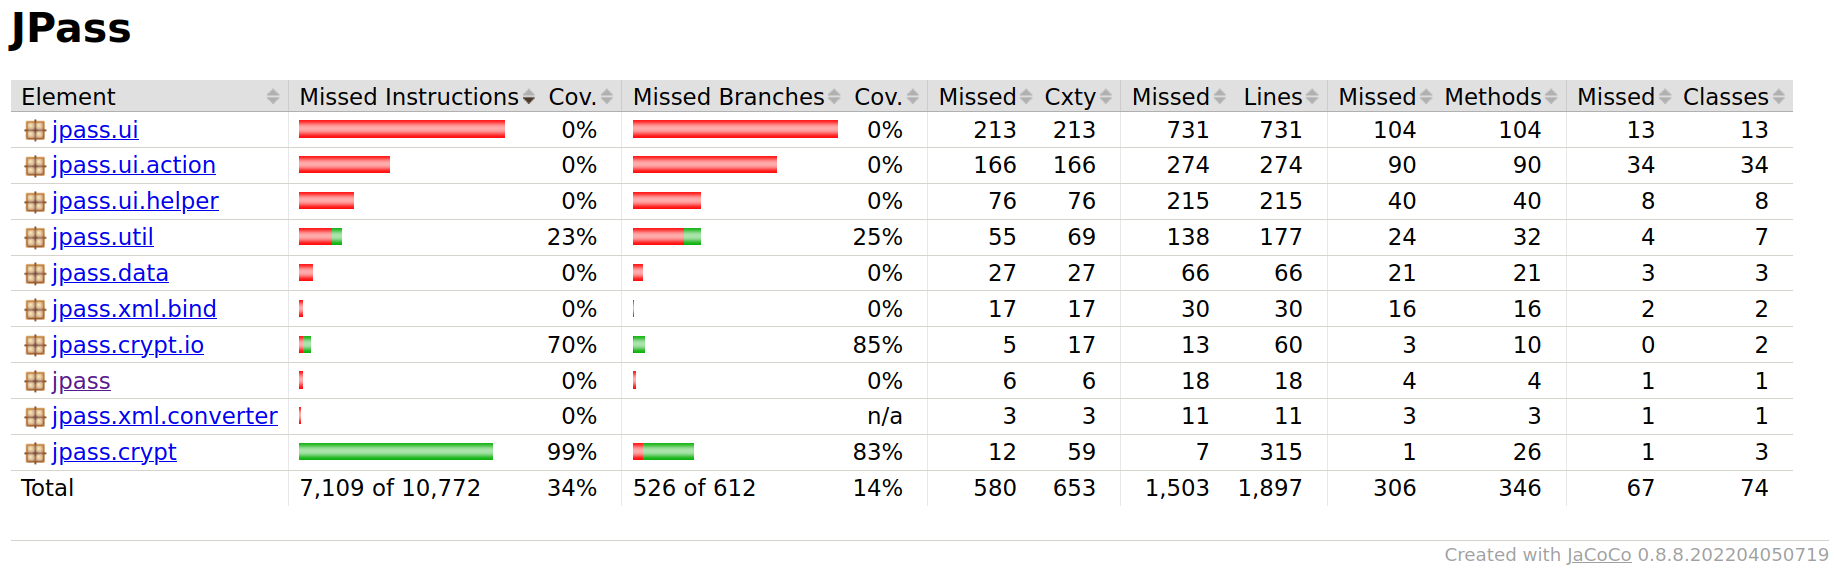
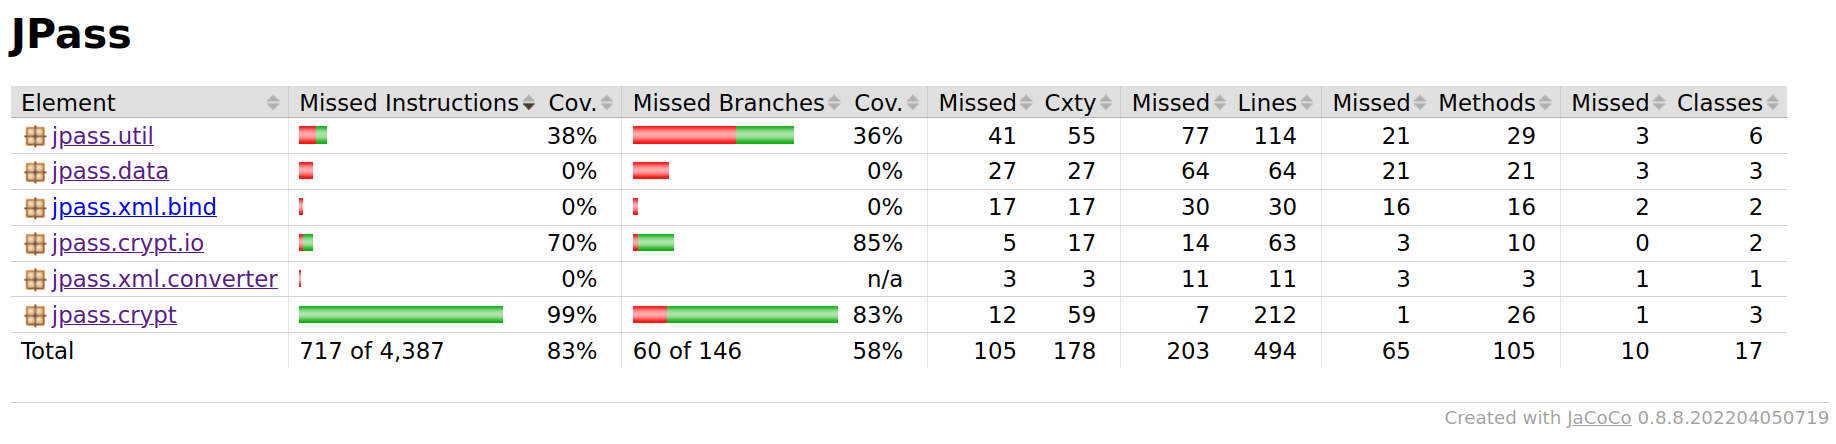
Report

diff --git a/src/test/java/jpass/data/EntriesRepositoryTest.java b/src/test/java/jpass/data/EntriesRepositoryTest.java
@@ -1,7 +1,7 @@
 package jpass.data;
 
 import static org.junit.jupiter.api.Assertions.assertEquals;
-import static org.junit.jupiter.api.Assertions.assertNotNull;
+import static org.junit.jupiter.api.Assertions.assertThrows;
 import static org.junit.jupiter.api.Assertions.fail;
 
 import java.io.FileNotFoundException;
@@ -120,17 +120,8 @@ public class EntriesRepositoryTest {
     public void noFileTest() {
         String filename = "src/test/res/not_a_file.txt";
         EntriesRepository repo = EntriesRepository.newInstance(filename);
-
-        try {
-            repo.readDocument();
-        }
-        catch (DocumentProcessException | IOException e) {
-            assertEquals(FileNotFoundException.class, e.getClass());
-            assertNotNull(e.getMessage());
-            return;
-        }
-
-        fail("No exception thrown.");
+        
+        assertThrows(FileNotFoundException.class, () -> repo.readDocument());
     }
 
     @Test
@@ -138,15 +129,6 @@ public class EntriesRepositoryTest {
         String filename = "src/test/res/bad_file.txt";
         EntriesRepository repo = EntriesRepository.newInstance(filename);
 
-        try {
-            repo.readDocument();
-        }
-        catch (DocumentProcessException | IOException e) {
-            assertNotNull(e.getMessage());
-            return;
-        }
-
-        fail("No exception thrown.");
-
+        assertThrows(IOException.class, () -> repo.readDocument());
     }
 }

diff --git a/src/test/java/jpass/util/CryptUtilsTest.java b/src/test/java/jpass/util/CryptUtilsTest.java
@@ -1,6 +1,7 @@
 package jpass.util;
 
 import static org.junit.jupiter.api.Assertions.assertEquals;
+import static org.junit.jupiter.api.Assertions.assertThrows;
 import static org.junit.jupiter.api.Assertions.fail;
 
 import org.junit.jupiter.api.Test;
@@ -26,14 +27,7 @@ public class CryptUtilsTest {
     public void nullGetSha256HashTest() {
         char[] text = null;
 
-        try {
-            CryptUtils.getSha256Hash(text);
-        }
-        catch (Exception e) {
-            return;
-        }
-        
-        fail("No exception thrown.");
+        assertThrows(Exception.class, () -> CryptUtils.getPKCS5Sha256Hash(text));
     }
 
     @Test

diff --git a/assignments/5/report.md b/assignments/5/report.md
@@ -10,9 +10,13 @@
 ## White-box testing: Structural Testing
 
 ### Code Coverage from the Tests from Assignment 2 and 3
-When collecting line and branch coverage for the tests developed for assignment 2 and 3, we had to generate the report using `mvn jacoco:report` since some of the tests resulted in a failure.
 
-We removed classes related to the `ui` by inserting the following configuration in the JaCoCo plugin:
+When collecting line and branch coverage for the tests developed for assignment 2 and 3, we had to generate the report using three commands:
+1. `mvn package -DskipTests` to generate the `target` folder and the `jpass.properties` file
+2. `mvn test` to runs all the implemented tests
+3. `mvn jacoco:report` to collect the JaCoCo report since some tests resulted in a failure
+
+We removed classes related to the `ui` and the main class by inserting the following configuration in the JaCoCo plugin:
 
 ```xml
 <configuration>
@@ -22,6 +26,9 @@ We removed classes related to the `ui` by inserting the following configuration 
         </exclude>
         <exclude>
             jpass/util/SpringUtilities.class
+        </exclude>
+        <exclude>
+            jpass/JPass.class
         </exclude>
     </excludes>
 </configuration>
@@ -33,23 +40,50 @@ After running, the JaCoCo presented the following result, not achieving the desi
 
 ### Test Development
 
-#### Package `jpass.crypt`
+#### Migrating JUnit to version 5
+To facilitate the implementation of some of the tests, we decided to migrate the project from version 4.x.x to version 5.x.x, gaining extra flexibility and ergonomy.
 
-| Function | Input(s) | Expected Result | Outcome |
-| -------- | -------- | --------------- | ------- |
-| encrypt(byte[] data) | data = null | _encrypted stays the same | Passed |
-| encrypt(byte[] data, int length) | data = null, length = 0 | _encryted stays the same | Passed |
-| decrypt(byte[] data) | data = null | _decrypted stays the same | Passed |
-| decrypt(byte[] data, int length) | data = null, length = 0 | _decrypted stays the same | Passed |
-
-#### Package `jpass.crypt.io`
-In this case, we copied the test `shouldDecryptAnEncryptedRandomMessage` and modified it in order to use the constructors `CryptOutputStream(OutputStream parent, byte[] key, byte[] iv)` and `public CryptInputStream(InputStream parent, byte[] key, byte[] iv)` and the function `CryptOutputStream.write(int b)`. The test passed.
-
-#### Package `jpass.`
-
-
+#### JUnit Features Used
+- Type of Asserts
+    - **assertEquals(expected, actual)**
+        - Verifies that the actual value is the same as the one we expected
+        - It is the most used type of assertion, and extremely versatile
+        - It cannot correctly verify if the actual array is equal to the expected one, so `assertTrue` is used in combination with `Arrays.equals(expected, actual)` in those cases. However, `assertEquals` can be used to verify the array's length
+        - Used when testing the `Cbc`, `Stream`, `DataModel`, `DocumentProcessException`, `EntriesRepository`, `ClipboardUtils`, `Configuration`, `CryptUtils`, `DateUtils`, `StringUtils`, `Entry` and `Entries` classes
+    - **assertTrue(condition)**
+        - Verifies that the condition is true
+        - Used in combination with `Arrays.equals(expected, actual)` to verify that the actual array is equal to the expected one
+        - Used when testing the `Aes256`, `Cbc`, `Stream`, `DataModel` and `Configuration` classes
+    - **assertFalse(condition)**
+        - Verifies that the condition is false
+        - Used when testing the `DataModel` and `Configuration` classes
+    - **assertNull(actual)**
+        - Verifies that the actual value is null
+        - Used to verify that a value is not initialized or atributed
+        - Used when testing the `ClipboardUtils`, `DataModel` and `Entry` classes
+    - **assertNotNull(actual)**
+        - Verifies that the actual value is not null, which means the value was atributed
+        - Used when testing the `Entry` class
+    - **assertThrows(expectedType, executable)**
+        - Verifies that an Exception of the expected type is thrown during the execution of the executable
+        - Used when testing the `EntriesRepository` and `CryptUtils` classes
+    - **fail**
+        - Used to fail a test when an unexpected exception was thrown
+        - Used when testing the `EntriesRepository`, `ClipboardUtils` and `CryptUtils` classes
+- Annotations
+    - **BeforeEach**
+        - Initializes values required by every test in that test class
+        - Used when testing the `Cbc` and `Entry` classes
+    - **ParameterizedTest** and **ValueSource**
+        - Allows us to execute a test with multiple parameters
+        - Used when testing the `Cbc` class
+        - Could have been useful in some other classes if we had migrated the project earlier
 
 ### Code Coverage after implementing more tests
-Once again, we run the command `mvn test && mvn jacoco:report` to run the tests and generate the JaCoCo report.
+We decided to not comment the failing tests, even though code and condition coverage can be obtained without failing tests. This implied that the JaCoCo report had to be obtained using the same three commands as at the beginning of this assignment.
 
 ![JaCoCo After](img/jacoco_after.png)
+
+#### Conclusions
+
+As previously shown, we were successful in reaching more than 90% line & condition coverage. We were also successful in updgrading our JUnit from version 4.x.x to 5.x.x. We had to do this in order to benefit from ergonomic improvements to the parameterized testing functionalities. Despite covering 90% of the codebase, we feel that pursuing line and condition coverage above all else may not be the most effective approach to mitigating and preventing faults in the code.
